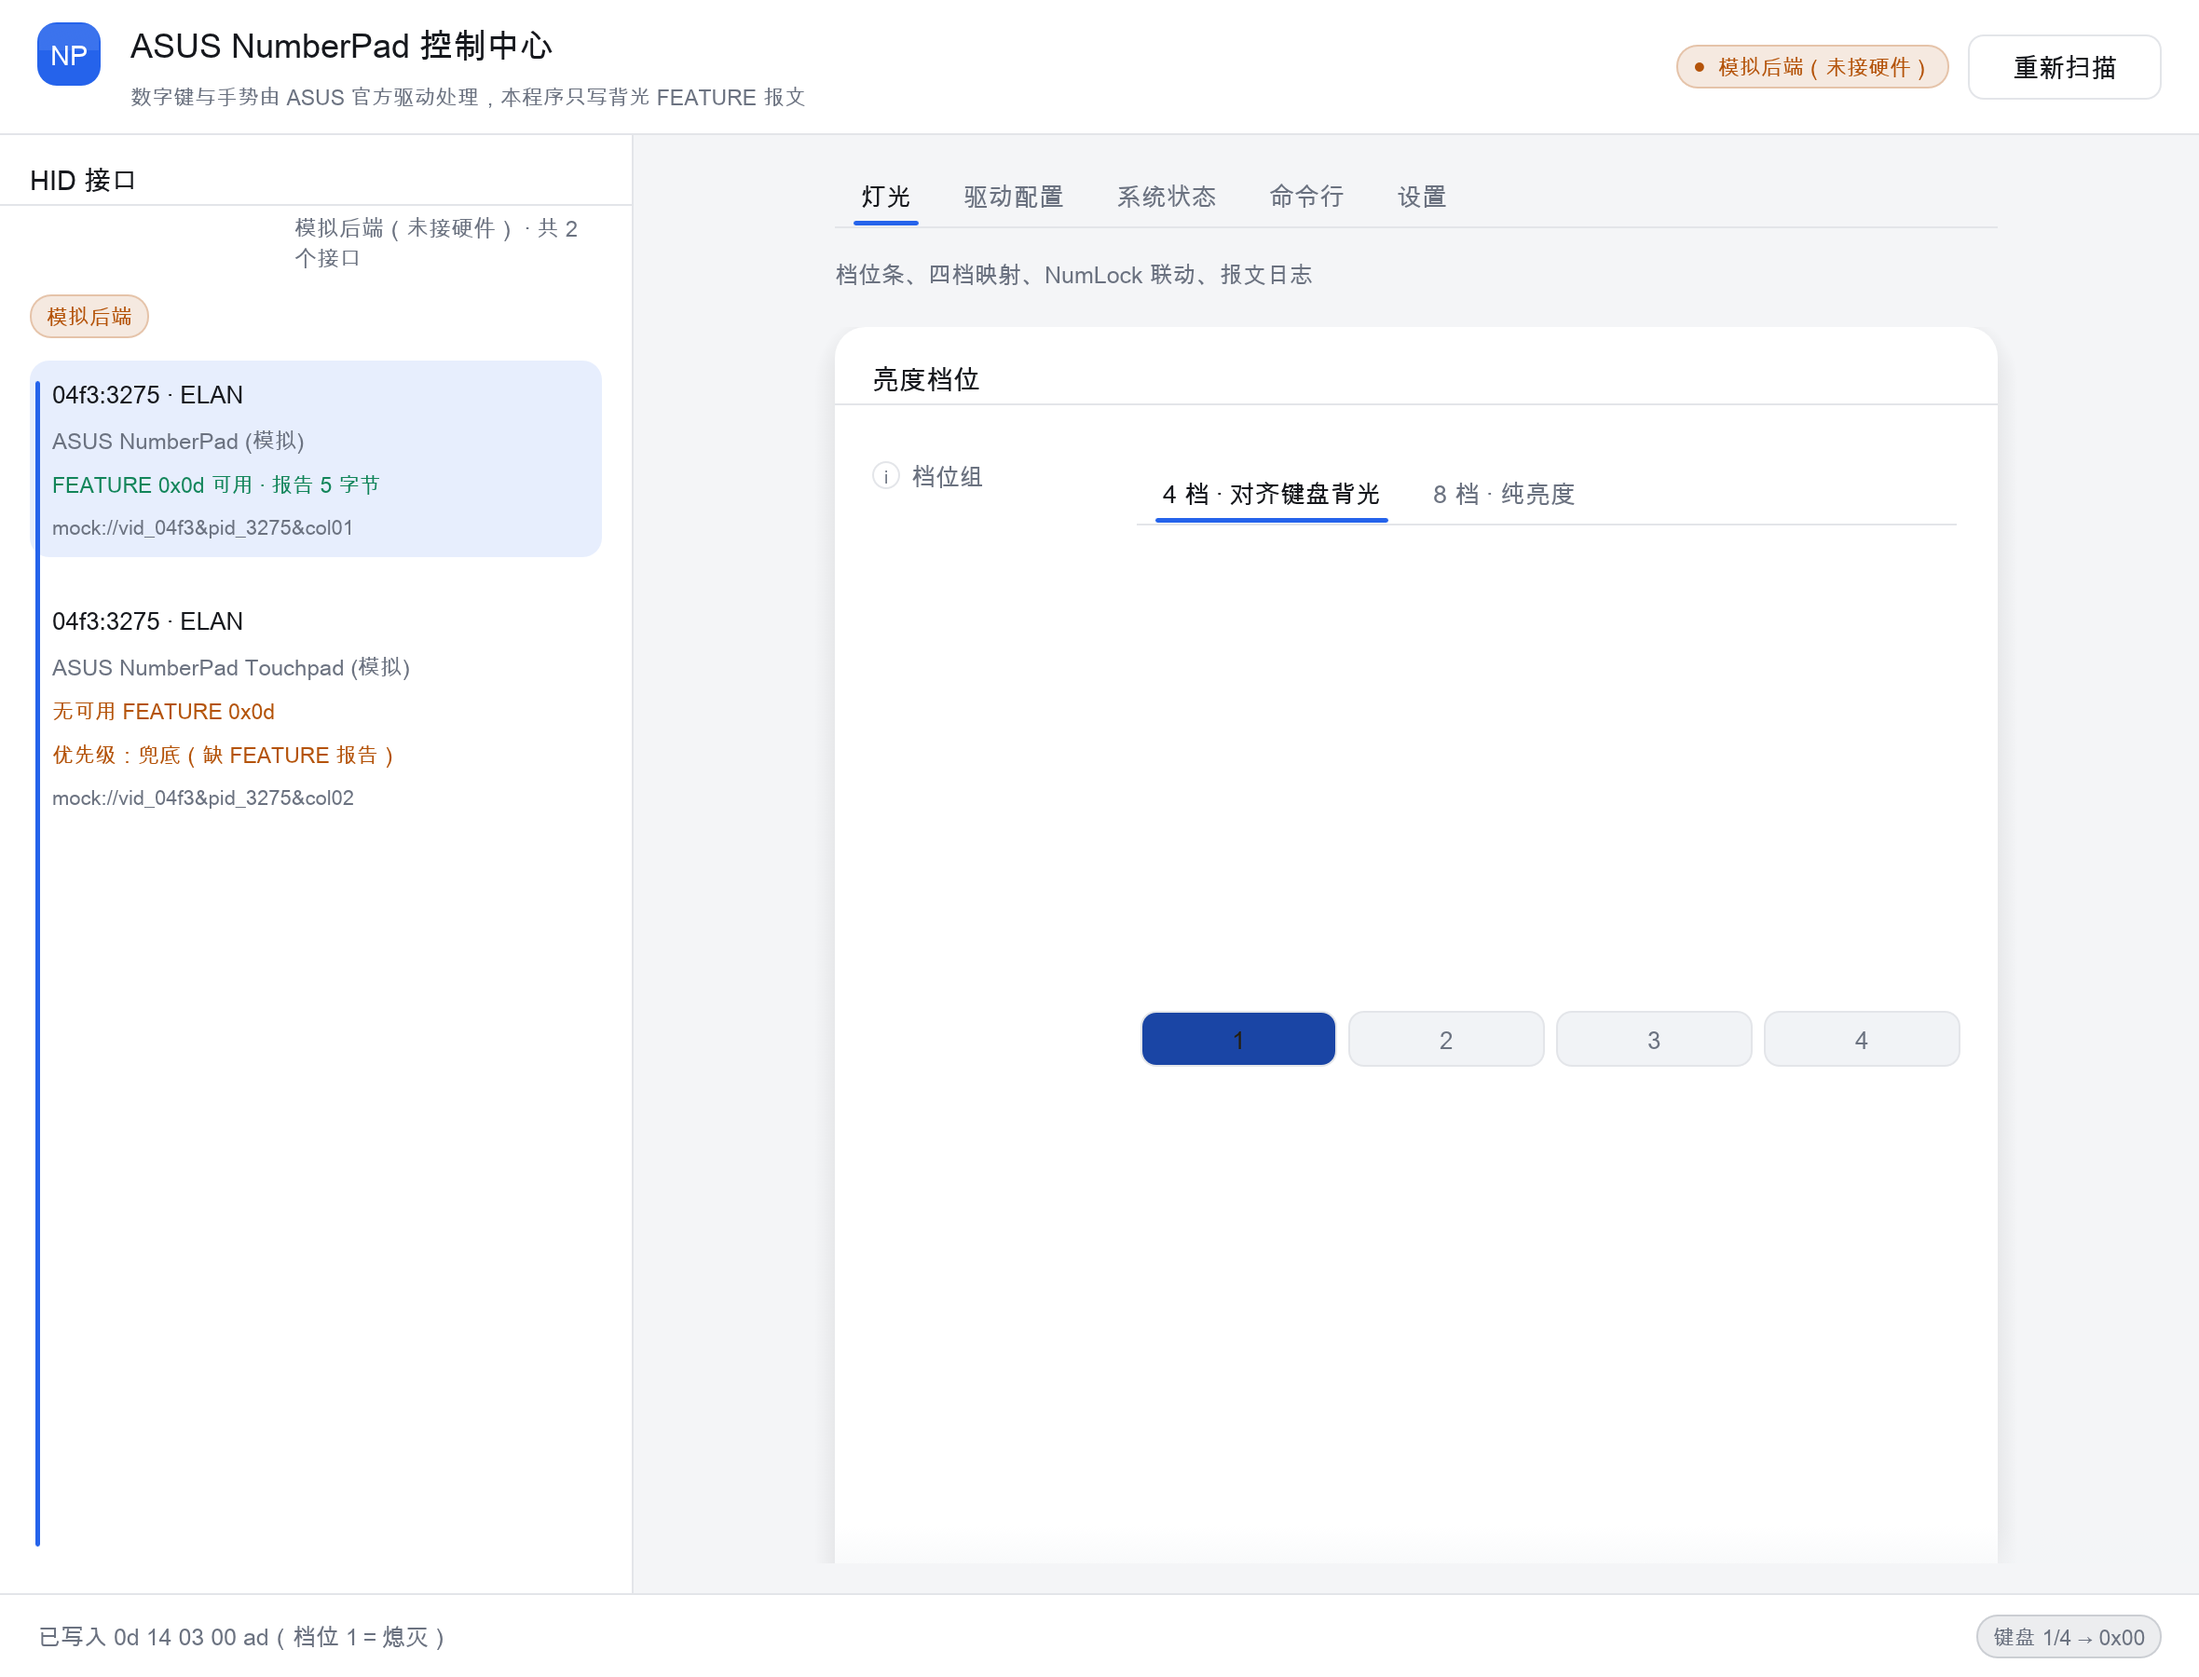
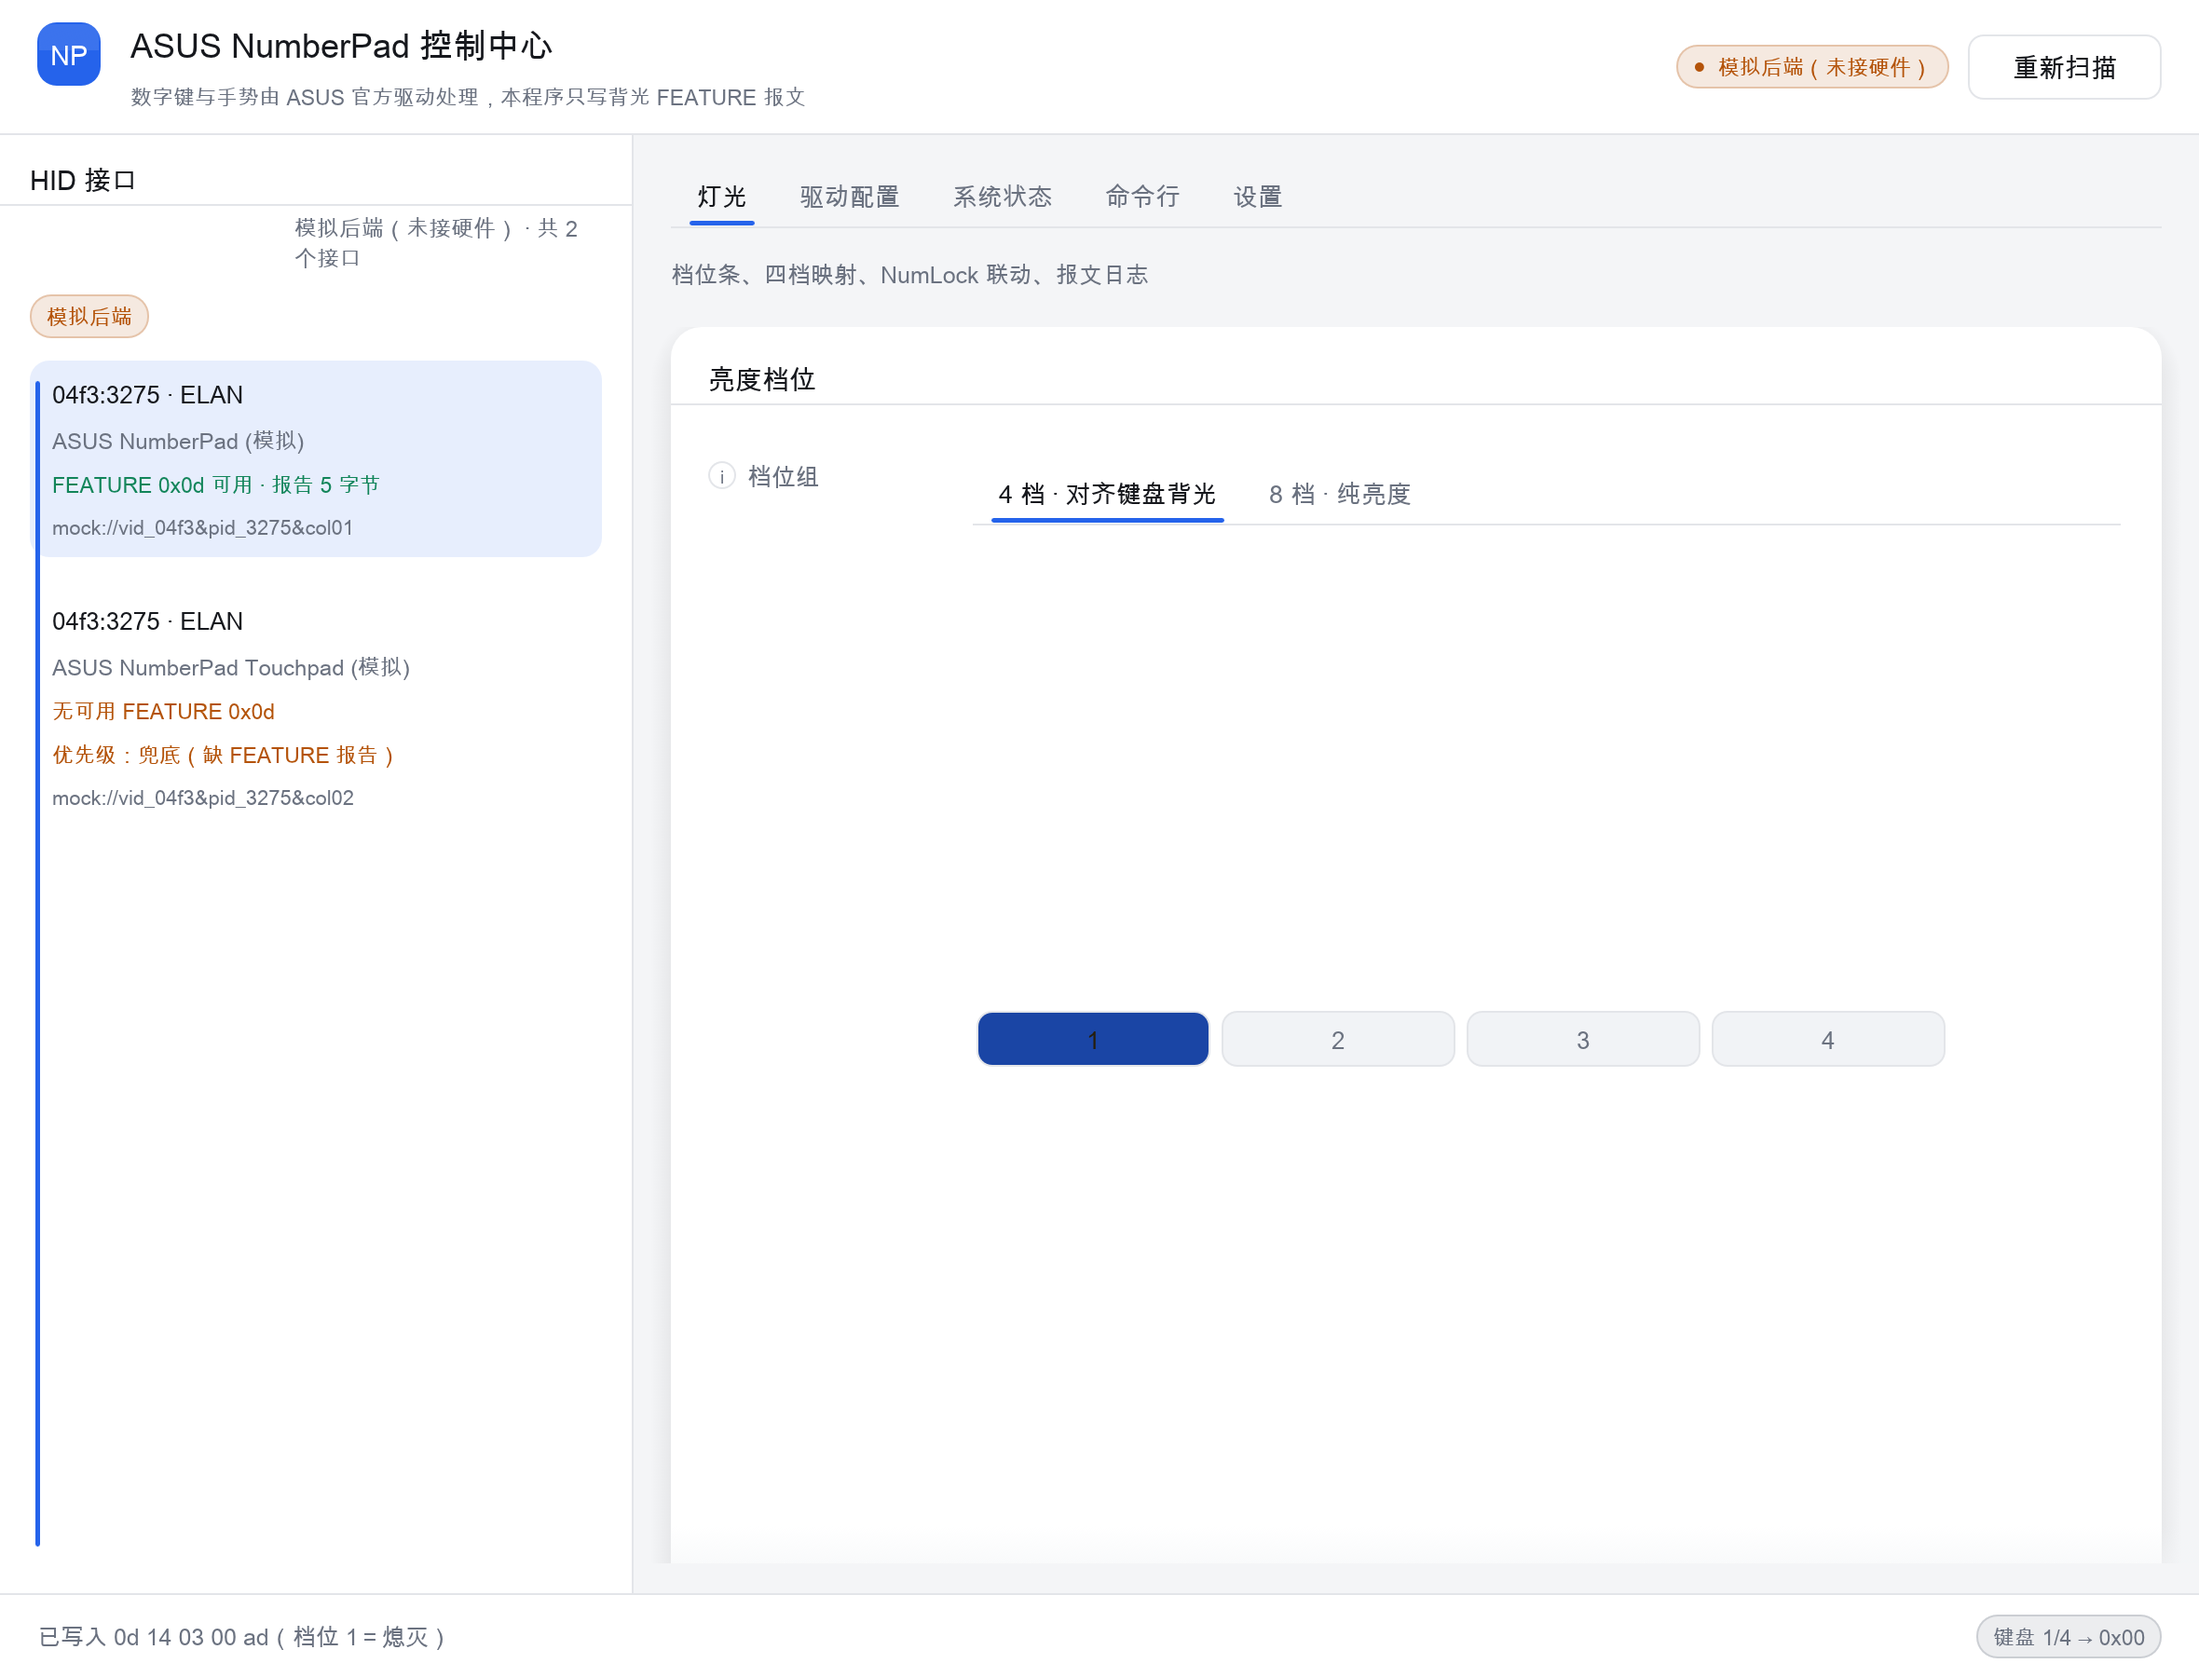
gui: 去掉卡片宽度上限，卡片吃满页面可用宽度，跨页左右缘统一

diff --git a/gui/src/theme.rs b/gui/src/theme.rs
@@ -582,25 +582,11 @@ pub const LABEL_W: f32 = 132.0;
 /// 卡片内容到卡片边缘的左右留白（[`card`] 的 `inner_margin`）。
 pub const CARD_PAD_X: f32 = 20.0;
 
-/// 内容列（含卡片左右留白）的宽度上限，各页所有卡片共用这一个宽度。
-///
-/// 取值 = 两倍留白 + 标签列 + 列间距 + 控件列上限，也就是「标签 + 最宽控件」刚好
-/// 顶到卡片右边的那一刻：卡片右内边距与控件右边缘落在同一条竖线上，一行里的
-/// 输入框、下拉框、按钮组、档位条右端全部齐平，卡片之间也不会一宽一窄。
-pub const CARD_MAX_W: f32 = CARD_PAD_X * 2.0 + LABEL_W + ROW_GAP + CTRL_MAX_W;
-
 /// 标签列与控件列之间的间距，与全局 `item_spacing.x` 取同一个值。
 pub const ROW_GAP: f32 = 12.0;
 
 /// 控件列宽度下限：窄窗口下也不能窄到把下拉框里的档位名切掉。
 pub const CTRL_MIN_W: f32 = 280.0;
-
-/// 控件列宽度上限：正好放得下一排四颗 [`BTN_W`] 按钮（4×104 + 3×8）。
-///
-/// 上限存在的意义是别让控件在大窗口里拉成一条横贯整页的输入框；
-/// 四颗按钮这一档是页面上最宽的一组控件，控件列只要够它，其余行就不会有任何
-/// 元素越出控件列的右边缘。
-pub const CTRL_MAX_W: f32 = 4.0 * BTN_W + 3.0 * 8.0;
 
 /// 控件行高。输入框、下拉框、数字框、按钮都取这个高度，一行里高矮一致。
 pub const CTRL_H: f32 = 32.0;
@@ -625,8 +611,10 @@ static COLUMN_W_MILLI: std::sync::atomic::AtomicU32 = std::sync::atomic::AtomicU
 /// 每页开画时调用一次：按本页内容宽度定下控件列宽度。
 pub fn begin_page(ui: &mut egui::Ui) {
     use std::sync::atomic::Ordering;
+    // 控件列 = 卡片内宽 - 标签列 - 列间距，正好吃掉卡片右侧那段内边距：
+    // 输入框、下拉框、档位条、按钮组右端于是都压在卡片右边这条竖线上。
     let content = ui.available_width() - CARD_PAD_X * 2.0;
-    let width = (content - LABEL_W - ROW_GAP).clamp(CTRL_MIN_W, CTRL_MAX_W);
+    let width = (content - LABEL_W - ROW_GAP).max(CTRL_MIN_W);
     COLUMN_W_MILLI.store((width * 1000.0).round() as u32, Ordering::Relaxed);
 }
 

diff --git a/gui/src/app/mod.rs b/gui/src/app/mod.rs
@@ -2144,18 +2144,12 @@ impl eframe::App for App {
         self.draw_devices(root);
 
         let p = self.palette;
-        // 中央内容列（页签、卡片、滚动区）统一到 CARD_MAX_W 宽并左右居中：
-        // 侧栏宽度可拖动，可用宽度每帧都在变，所以留白按剩余宽度现算。
-        // 不居中时卡片右缘停在面板中间，右边空出一大块，几个圆角矩形看着东倒西歪。
-        let spare = (root.available_width() - 40.0 - theme::CARD_MAX_W).max(0.0);
-        let pad = (spare * 0.5).floor();
         egui::CentralPanel::default()
-            .frame(egui::Frame::new().fill(p.bg).inner_margin(egui::Margin {
-                left: 20 + pad as i8,
-                right: 20 + pad as i8,
-                top: 16,
-                bottom: 16,
-            }))
+            .frame(
+                egui::Frame::new()
+                    .fill(p.bg)
+                    .inner_margin(egui::Margin::symmetric(20, 16)),
+            )
             .show(root, |ui| {
                 if self.ui_full {
                     let pages = [
@@ -2199,12 +2193,8 @@ impl eframe::App for App {
                     }
                     ui.add_space(12.0);
                 }
-                // 内容列封顶：窗口再宽也不把表单拉成横贯整页的长输入框，
-                // 页签基线、卡片右缘、控件右缘于是共用同一条右边界。
-                let col_w = ui.available_width().min(theme::CARD_MAX_W);
                 egui::ScrollArea::vertical()
                     .auto_shrink([false, false])
-                    .max_width(col_w)
                     .id_salt(("page", self.tab))
                     .show(ui, |ui| {
                         // 控件列宽度整页只定一次，各卡片、各折叠区里的行都照这一个宽度排
